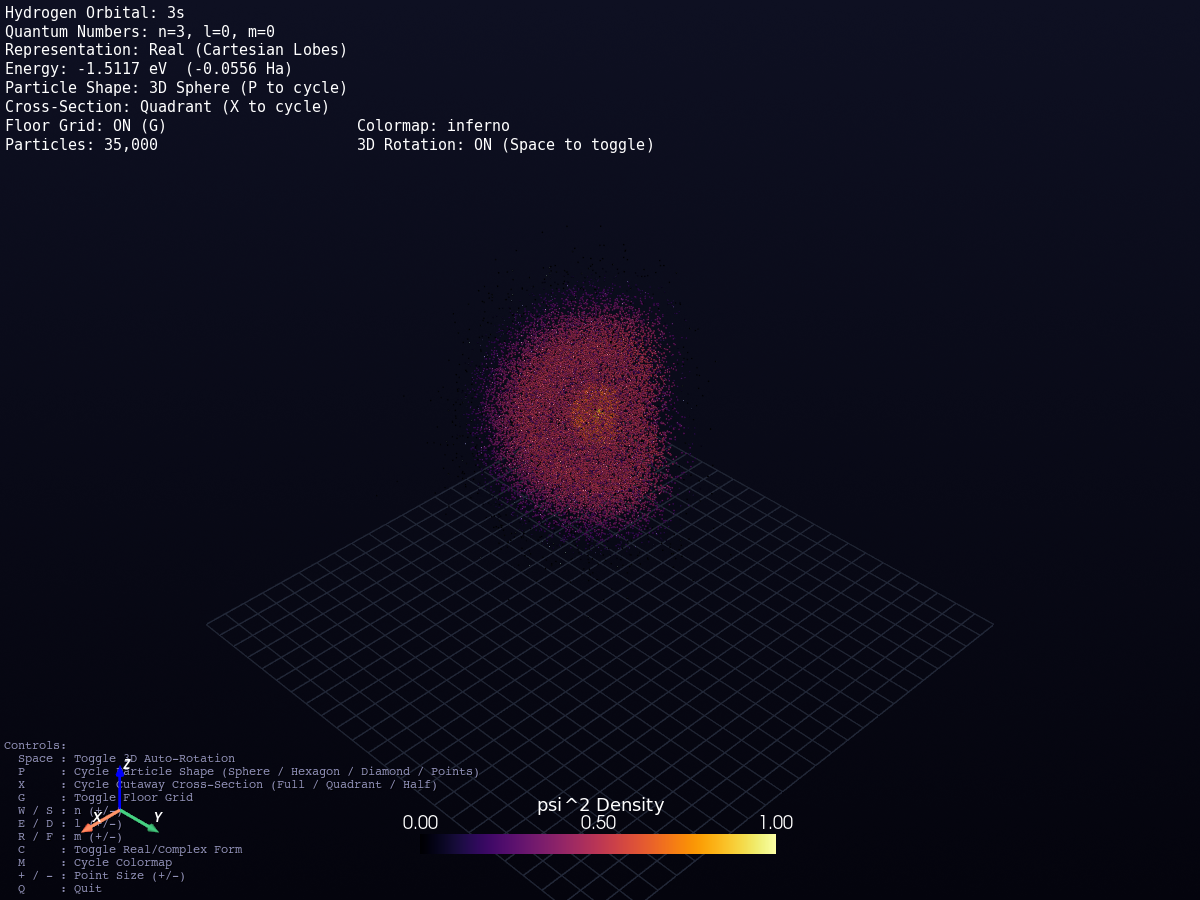
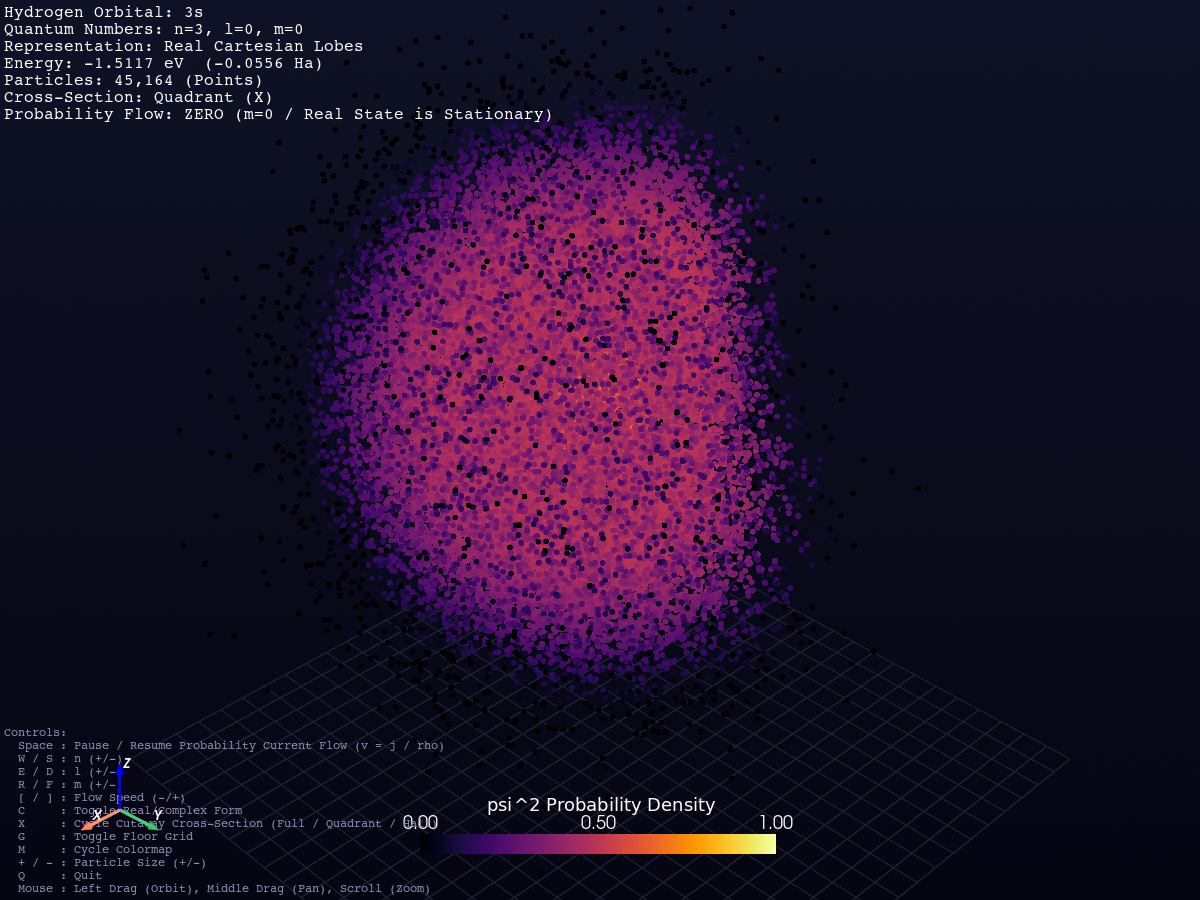
Fix LaTeX KaTeX macro compatibility and regenerate high-n simulation render

diff --git a/README.md b/README.md
@@ -76,9 +76,9 @@ All images below are generated directly from our exact analytical simulation eng
 
 ---
 
-### 2. High-$n$ Rydberg State & Cutaway Cross-Sections
+### 2. High-n Rydberg State & Cutaway Cross-Sections
 
-| MinutePhysics High-$n$ State ($n=5, l=2, m=1$) | Radial Nodal Cutaway ($3s$ Core Shells) |
+| MinutePhysics High-n State ($n=5, l=2, m=1$) | Radial Nodal Cutaway ($3s$ Core Shells) |
 |:---:|:---:|
 | ![High-n State](renders/minutephysics_n5_l2_m1.png) | ![Cutaway 3s](renders/demo_cutaway_3s.png) |
 | *Complex probability flow with active circulation* | *Stationary quadrant cut revealing concentric internal shells* |
@@ -101,7 +101,7 @@ python run_web.py
 This boots the local FastAPI server and opens `http://localhost:8000` automatically in your default browser.
 
 ### Key Web Features
-- **Physical Probability Current**: Particles circulate with exact quantum drift velocity $\mathbf{v} = \frac{\hbar m}{m_e r \sin\theta}\hat{\boldsymbol{\phi}}$ (scalable up to **10× speed**).
+- **Physical Probability Current**: Particles circulate with exact quantum drift velocity $\mathbf{v} = \frac{\hbar m}{m_e r \sin\theta} \hat{\phi}$ (scalable up to **10× speed**).
 - **11 Scientific Colormaps**: `Inferno`, `Viridis`, `Plasma`, `Magma`, `Cyberpunk`, `Emerald`, `Cosmic`, `Solar`, `Turbo`, `CoolWarm`, `Hot`.
 - **View Alignment Toolbar**: Quick 1-click alignments for `Top (1)`, `Front (2)`, `Side (3)`, and `3D Iso (0)`.
 - **Stationary Cutaway Cross-Sections**: Press <kbd>X</kbd> to toggle Full, Quadrant, or Half spatial cuts to inspect interior nodal spheres.
@@ -176,10 +176,10 @@ $$P(r) = r^2 |R_{nl}(r)|^2 \implies r_{\text{peak}} = n^2 a_0 \quad (\text{for c
 
 ### 4. Physical Quantum Probability Current Flow
 The probability current density $\mathbf{j}$ for a stationary state $\psi_{nlm}$ with azimuthal phase $e^{i m \phi}$ is:
-$$\mathbf{j} = \frac{\hbar}{m_e} \operatorname{Im}(\psi^* \nabla \psi) = \frac{\hbar m}{m_e r \sin\theta} |\psi|^2 \hat{\boldsymbol{\phi}}$$
+$$\mathbf{j} = \frac{\hbar}{m_e} \text{Im}(\psi^* \nabla \psi) = \frac{\hbar m}{m_e r \sin\theta} |\psi|^2 \hat{\phi}$$
 
 The corresponding particle drift velocity field is:
-$$\mathbf{v} = \frac{\mathbf{j}}{\rho} = \frac{\hbar m}{m_e r \sin\theta} \hat{\boldsymbol{\phi}} \implies \omega = \frac{d\phi}{dt} = \frac{m}{r^2 \sin^2 \theta}$$
+$$\mathbf{v} = \frac{\mathbf{j}}{\rho} = \frac{\hbar m}{m_e r \sin\theta} \hat{\phi} \implies \omega = \frac{d\phi}{dt} = \frac{m}{r^2 \sin^2 \theta}$$
 
 - For $m=0$ (or Real Cartesian orbitals): $\mathbf{v} = 0 \implies$ stationary cloud.
 - For $m \ne 0$: particles swirl azimuthally about the $Z$-axis, faster near the core and equator.
